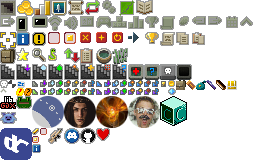
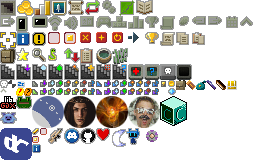
DER 1.0: added credits

Changed region(s): [[0.4375, 0.7812, 0.625, 0.9375]]

diff --git a/core/src/main/java/com/shatteredpixel/shatteredpixeldungeon/scenes/AboutScene.java b/core/src/main/java/com/shatteredpixel/shatteredpixeldungeon/scenes/AboutScene.java
@@ -65,13 +65,40 @@ public class AboutScene extends PixelScene {
 		Component content = list.content();
 		content.clear();
 
+		CreditsBlock tb = new CreditsBlock(true, 0x3c9efa,
+				"DE-Ranged Pixel Dungeon",
+				Icons.BOBYLEV.get(),
+				"Developed by: _Trashbox Bobylev_\nThe silly expansion of ReARranged PD\nBased on ReARranged's and RKA's open source",
+				"reddit.com/u/TrashboxBobylev",
+				"https://reddit.com/u/TrashboxBobylev");
+		tb.setRect((w - fullWidth)/2f, 6, 120, 0);
+		content.add(tb);
+
+		CreditsBlock zrp200 = new CreditsBlock(false, 0xffc61a,
+				"RKPD2's creator",
+				Icons.ZRP200.get(),
+				"Zrp200 (484 Palkia)",
+				"https://github.com/Zrp200",
+				"https://github.com/Zrp200");
+		zrp200.setSize(colWidth/2f, 0);
+		if (landscape()){
+			zrp200.setPos(tb.right(), tb.top());
+		} else {
+			zrp200.setPos(w/2f - colWidth/2f + tb.width()/2f, tb.bottom()+12);
+		}
+		content.add(zrp200);
+
 		CreditsBlock arranged = new CreditsBlock(true, Window.WHITE,
 				"Re-ARranged Pixel Dungeon",
 				Icons.ARRANGED.get(),
 				"Developed by: _Cocoa_\nBased on Shattered Pixel Dungeon's open source",
 				"github repository",
 				"https://github.com/Hoto-Mocha/Re-ARranged-Pixel-Dungeon");
-		arranged.setRect((w - fullWidth)/2f, 6, 120, 0);
+		if (landscape()){
+			arranged.setRect(tb.left(), tb.bottom() + 12, colWidth, 0);
+		} else {
+			arranged.setRect(tb.left(), zrp200.bottom() + 12, colWidth, 0);
+		}
 		content.add(arranged);
 
 		CreditsBlock splash = new CreditsBlock(false, Window.WHITE,
@@ -91,6 +118,8 @@ public class AboutScene extends PixelScene {
 		if (!landscape()){
 			addLine(splash.top() - 4, content);
 		}
+
+		addLine(arranged.top() - 8, content);
 
 		CreditsBlock arrangedTransifex = new CreditsBlock(true,
 				Window.TITLE_COLOR,

diff --git a/core/src/main/java/com/shatteredpixel/shatteredpixeldungeon/ui/Icons.java b/core/src/main/java/com/shatteredpixel/shatteredpixeldungeon/ui/Icons.java
@@ -143,7 +143,9 @@ public enum Icons {
 	PURIGRO,
 	ARCNOR,
 	DCINSIDE,
-	NOTHING;
+	NOTHING,
+
+	BOBYLEV, ZRP200;
 
 	public Image get() {
 		return get( this );
@@ -440,6 +442,12 @@ public enum Icons {
 				break;
 			case WATA:
 				icon.frame( icon.texture.uvRectBySize( 0, 112, 17, 12 ) );
+				break;
+			case BOBYLEV:
+				icon.frame( icon.texture.uvRectBySize( 112, 128, 30, 20 ) );
+				break;
+			case ZRP200:
+				icon.frame( icon.texture.uvRectBySize( 144, 128, 16, 16 ) );
 				break;
 
 			//large icons are scaled down to match game's size
